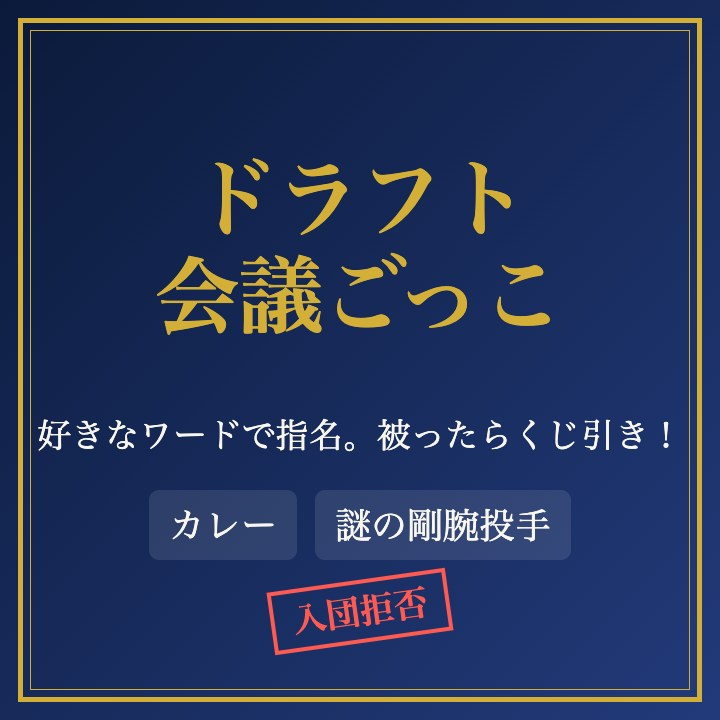
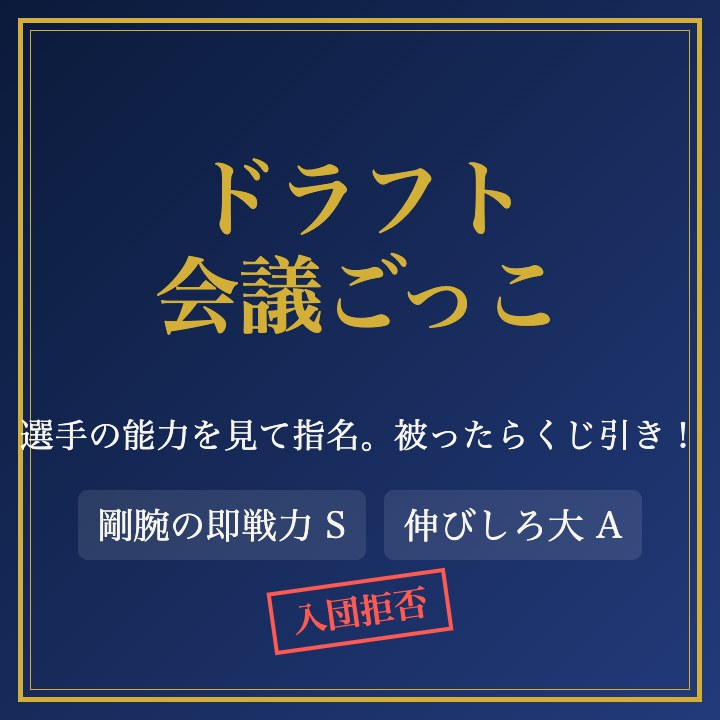
ドラフト会議ごっこの紹介・プライバシーを新しい仕様に更新（フリーワード廃止）

Changed region(s): [[0.0306, 0.5806, 0.9778, 0.6417], [0.1222, 0.6722, 0.8861, 0.7639]]

diff --git a/works/draft-party/index.html b/works/draft-party/index.html
@@ -4,9 +4,9 @@
 <meta charset="utf-8">
 <meta name="viewport" content="width=device-width, initial-scale=1">
 <title>ドラフト会議ごっこ — Koshin Studio</title>
-<meta name="description" content="好きなワードで指名して、被ったらくじ引き。選手の能力を見て選ぶスカウトモードでは、数年後の成績発表まで。友達と、知らない人と遊べる無料のブラウザゲーム。">
+<meta name="description" content="選手の能力を見て指名して、被ったらくじ引き。数年後の成績発表まで見られる、友達と、知らない人と遊べる無料のブラウザゲーム。">
 <meta property="og:title" content="ドラフト会議ごっこ">
-<meta property="og:description" content="好きなワードで指名して、被ったらくじ引き。みんなで遊ぶブラウザのドラフト会議。">
+<meta property="og:description" content="選手の能力を見て指名して、被ったらくじ引き。みんなで遊ぶブラウザのドラフト会議。">
 <meta property="og:type" content="article">
 <meta name="theme-color" content="#fbfaf7">
 <link rel="icon" href="/favicon.ico?v=1697d589" sizes="48x48">
@@ -27,7 +27,7 @@
 <link rel="alternate" hreflang="x-default" href="https://koshinstudio.com/en/works/draft-party/">
 <meta name="twitter:card" content="summary_large_image">
 <link rel="alternate" type="application/rss+xml" title="Koshin Studio — Notes" href="https://koshinstudio.com/feed.xml">
-<script type="application/ld+json">{"@context":"https://schema.org","@graph":[{"@type":"VideoGame","name":"ドラフト会議ごっこ","url":"https://koshinstudio.com/works/draft-party/","description":"好きなワードで指名して、被ったらくじ引き。選手の能力を見て選ぶスカウトモードでは、数年後の成績発表まで。みんなで遊ぶ、ブラウザのドラフト会議。","inLanguage":"ja","image":"https://koshinstudio.com/assets/draft-party-square@2x.jpg","applicationCategory":"GameApplication","operatingSystem":"Web","datePublished":"2026","gamePlatform":"Web browser","playMode":"SinglePlayer","genre":["パーティーゲーム","ドラフト"],"author":{"@id":"https://koshinstudio.com#studio"},"publisher":{"@id":"https://koshinstudio.com#studio"},"offers":{"@type":"Offer","price":"0","priceCurrency":"JPY"}},{"@type":"BreadcrumbList","itemListElement":[{"@type":"ListItem","position":1,"name":"Koshin Studio","item":"https://koshinstudio.com/"},{"@type":"ListItem","position":2,"name":"Works","item":"https://koshinstudio.com/works/"},{"@type":"ListItem","position":3,"name":"ドラフト会議ごっこ","item":"https://koshinstudio.com/works/draft-party/"}]}]}</script>
+<script type="application/ld+json">{"@context":"https://schema.org","@graph":[{"@type":"VideoGame","name":"ドラフト会議ごっこ","url":"https://koshinstudio.com/works/draft-party/","description":"選手の能力を見て指名して、被ったらくじ引き。数年後の成績発表まで見られる、みんなで遊ぶブラウザのドラフト会議。","inLanguage":"ja","image":"https://koshinstudio.com/assets/draft-party-square@2x.jpg","applicationCategory":"GameApplication","operatingSystem":"Web","datePublished":"2026","gamePlatform":"Web browser","playMode":"SinglePlayer","genre":["パーティーゲーム","ドラフト"],"author":{"@id":"https://koshinstudio.com#studio"},"publisher":{"@id":"https://koshinstudio.com#studio"},"offers":{"@type":"Offer","price":"0","priceCurrency":"JPY"}},{"@type":"BreadcrumbList","itemListElement":[{"@type":"ListItem","position":1,"name":"Koshin Studio","item":"https://koshinstudio.com/"},{"@type":"ListItem","position":2,"name":"Works","item":"https://koshinstudio.com/works/"},{"@type":"ListItem","position":3,"name":"ドラフト会議ごっこ","item":"https://koshinstudio.com/works/draft-party/"}]}]}</script>
 <meta property="og:image" content="https://koshinstudio.com/assets/og/og_works_draft-party.jpg">
 <meta property="og:image:width" content="1200">
 <meta property="og:image:height" content="630">
@@ -46,7 +46,7 @@
   <h1>ドラフト会議ごっこ</h1>  <div class="rule"></div>
 <!--lang-->
   <p class="note"><a href="/en/works/draft-party/" hreflang="en" lang="en">English version</a></p>
-<!--/lang-->  <p class="lead">好きなワードで指名して、被ったらくじ引き。<br>みんなで盛り上がる、ブラウザのドラフト会議。</p>
+<!--/lang-->  <p class="lead">選手の能力を見て指名して、被ったらくじ引き。<br>みんなで盛り上がる、ブラウザのドラフト会議。</p>
 
   <p><a class="btn" data-play="draft-party" href="/draft/">遊ぶ</a></p>
   <p class="note">無料。ブラウザだけで遊べて、登録も要りません。日本語・英語・韓国語・繁体字中国語に対応しています。</p>
@@ -58,19 +58,20 @@
   </div>
 
   <h2 class="rv">どんな遊びか</h2>
-  <p>球団名を決めて、ワードで指名していくゲームです。1巡目は全員が同時に、ほかの人に見えないように入札します。一斉に公開して、同じワードが被った球団は<strong>くじ引き</strong>です。競合した球団が順番に伏せた紙を1枚ずつ取り、全員が取り終わったら一斉に開けます。当たった球団だけが交渉権を得て、外れた球団は別のワードで入札し直します（外れ1位）。</p>
+  <p>球団名を決めて、架空の新人選手を指名していくゲームです。1巡目は全員が同時に、ほかの人に見えないように入札します。一斉に公開して、同じ選手が被った球団は<strong>くじ引き</strong>です。競合した球団が順番に伏せた紙を1枚ずつ取り、全員が取り終わったら一斉に開けます。当たった球団だけが交渉権を得て、外れた球団は別の選手で入札し直します（外れ1位）。</p>
   <p>2巡目からは、1球団ずつ順番に指名します（順番は巡目ごとに反転）。最後に交渉結果の発表があり、「入団合意」と「入団拒否」が出ます。結果は画像にして、Xでシェアできます。</p>
 
   <h2 class="rv">2つのモード</h2>
-  <h3>フリーワードモード</h3>
-  <p>人でも食べ物でも思いつきの言葉でも、野球に限らず何でも指名できます。ホストがお題を決めたり、みんなで投票して決めたりもできます。</p>
   <h3>スカウトモード</h3>
-  <p>架空の新人選手の能力・将来性・実績を見て指名します。能力は「スカウトの見立て」なので、実際の力とはずれることがあります。入団した選手は数年かけて成長し、全チームが総当たりを戦います。年ごとの順位表、全チームとの対戦成績、首位打者や最多勝などのタイトル、新人王、ドラフト採点まで出て、その発表は参加者みんなで同時に見ながら、スタンプやチャットで盛り上がれます。ホストが選手を自分で登録するモードもあります。</p>
+  <p>架空の新人選手の能力・将来性・実績を見て指名します。能力は「スカウトの見立て」なので、実際の力とはずれることがあります。入団した選手は数年かけて成長し、全チームが総当たりを戦います。年ごとの順位表、全チームとの対戦成績、首位打者や最多勝などのタイトル、新人王、ドラフト採点まで出て、その発表は参加者みんなで同時に見ながら、スタンプやチャットで盛り上がれます。ホストが選手を自分で登録することもできます。</p>
+  <h3>選択肢モード</h3>
+  <p>ホストが用意した選択肢（例：クラスの全員、好きなアニメ50本）の中から選んで指名します。友達どうしの盛り上がり向けです。</p>
 
   <h2 class="rv">友達と、知らない人と</h2>
   <ul>
-    <li><strong>友達部屋</strong>：6文字の合言葉かURLで入ります。球団数・巡目数・制限時間・モード・お題はホストが決め、「開始」を押すまで始まりません。友達がそろったあとに公開すると、ランダムマッチの人も入ってきます。ホストは、困った人を退室させることもできます。</li>
-    <li><strong>ランダムマッチ</strong>：同じ言語の人と自動で組まれます。人が足りなくてもCPU球団が加わるので、待たされずに始まります。</li>
+    <li><strong>友達部屋</strong>：6文字の合言葉かURLで入ります。球団数・巡目数・制限時間・入団拒否・モードはホストが自由に決め、「開始」を押すまで始まりません。公開すると、募集中の部屋の一覧に載って、知らない人も入ってきます。ホストは、困った人を退室させることもできます。</li>
+    <li><strong>募集中の部屋を探す</strong>：公開されている部屋を、ルール（球団数・巡数・制限時間・入団拒否）を見てから選んで参加できます。</li>
+    <li><strong>おまかせ</strong>：探すのが面倒なときは、ワンタップで募集中の部屋に入ります。なければCPU球団が加わり、待たされずに始まります。</li>
   </ul>
   <p>球団には、オリジナルのエンブレムが自動で付きます（選び直せます）。自分の画像もどの部屋でも使えます（不適切な画像は通報で隠れます）。</p>
 

diff --git a/en/works/draft-party/index.html b/en/works/draft-party/index.html
@@ -4,9 +4,9 @@
 <meta charset="utf-8">
 <meta name="viewport" content="width=device-width, initial-scale=1">
 <title>Draft Party — Koshin Studio</title>
-<meta name="description" content="Draft Party is a free browser game. Pick any word; if teams tie, they draw lots. In Scout mode you pick fictional rookies by their abilities and watch several seasons of results together.">
+<meta name="description" content="Draft Party is a free browser game. Scout fictional rookies by their abilities and draw lots on ties, then watch several seasons of results together.">
 <meta property="og:title" content="Draft Party">
-<meta property="og:description" content="A free browser draft game: pick any word, draw lots on ties, and scout fictional rookies.">
+<meta property="og:description" content="A free browser draft game: scout fictional rookies, draw lots on ties, and watch the seasons play out.">
 <meta property="og:type" content="article">
 <meta name="theme-color" content="#fbfaf7">
 <link rel="icon" href="/favicon.ico?v=1697d589" sizes="48x48">
@@ -27,7 +27,7 @@
 <link rel="alternate" hreflang="x-default" href="https://koshinstudio.com/en/works/draft-party/">
 <meta name="twitter:card" content="summary_large_image">
 <link rel="alternate" type="application/rss+xml" title="Koshin Studio — Notes" href="https://koshinstudio.com/feed.xml">
-<script type="application/ld+json">{"@context":"https://schema.org","@graph":[{"@type":"VideoGame","name":"Draft Party — a free multiplayer draft game you play in your browser","url":"https://koshinstudio.com/en/works/draft-party/","description":"Draft Party is a free browser game. Pick any word; if teams tie, they draw lots. In Scout mode you pick fictional rookies by their abilities and watch several seasons of stats, standings and head-to-head results together. Play with friends or random players, in four languages.","inLanguage":"en","image":"https://koshinstudio.com/assets/draft-party-square@2x.jpg","applicationCategory":"GameApplication","operatingSystem":"Web","datePublished":"2026","gamePlatform":"Web browser","playMode":"SinglePlayer","author":{"@id":"https://koshinstudio.com#studio"},"publisher":{"@id":"https://koshinstudio.com#studio"},"offers":{"@type":"Offer","price":"0","priceCurrency":"JPY"}},{"@type":"BreadcrumbList","itemListElement":[{"@type":"ListItem","position":1,"name":"Koshin Studio","item":"https://koshinstudio.com/en/"},{"@type":"ListItem","position":2,"name":"Draft Party — a free multiplayer draft game you play in your browser","item":"https://koshinstudio.com/en/works/draft-party/"}]}]}</script>
+<script type="application/ld+json">{"@context":"https://schema.org","@graph":[{"@type":"VideoGame","name":"Draft Party — a free multiplayer draft game you play in your browser","url":"https://koshinstudio.com/en/works/draft-party/","description":"Draft Party is a free browser game. Scout fictional rookies by their abilities and draw lots on ties, then watch several seasons of stats, standings and head-to-head results together. Play with friends or strangers.","inLanguage":"en","image":"https://koshinstudio.com/assets/draft-party-square@2x.jpg","applicationCategory":"GameApplication","operatingSystem":"Web","datePublished":"2026","gamePlatform":"Web browser","playMode":"SinglePlayer","author":{"@id":"https://koshinstudio.com#studio"},"publisher":{"@id":"https://koshinstudio.com#studio"},"offers":{"@type":"Offer","price":"0","priceCurrency":"JPY"}},{"@type":"BreadcrumbList","itemListElement":[{"@type":"ListItem","position":1,"name":"Koshin Studio","item":"https://koshinstudio.com/en/"},{"@type":"ListItem","position":2,"name":"Draft Party — a free multiplayer draft game you play in your browser","item":"https://koshinstudio.com/en/works/draft-party/"}]}]}</script>
 <meta property="og:image" content="https://koshinstudio.com/assets/og/og_works_draft-party.jpg">
 <meta property="og:image:width" content="1200">
 <meta property="og:image:height" content="630">
@@ -46,7 +46,7 @@
   <h1>Draft Party</h1>  <div class="rule"></div>
 <!--lang-->
   <p class="note"><a href="/works/draft-party/" hreflang="ja" lang="ja">日本語版</a></p>
-<!--/lang-->  <p class="lead">Pick any word you like. Tie with someone? Lottery!<br>A draft day for everyone, in your browser.</p>
+<!--/lang-->  <p class="lead">Scout rookies by their abilities. Tie with someone? Lottery!<br>A draft day for everyone, in your browser.</p>
 
   <p><a class="btn" data-play="draft-party" href="/draft/">Play now</a></p>
   <p class="note">Free. Runs in your browser, no install or sign-up. Available in Japanese, English, Korean and Traditional Chinese.</p>
@@ -58,19 +58,20 @@
   </div>
 
   <h2 class="rv">What it is</h2>
-  <p>Name your team and pick words. In Round 1 everyone bids at the same time, hidden from the others, and all bids are revealed together. If teams chose the same word, they <strong>draw lots</strong>: the competing teams take turns picking one hidden paper, and when everyone has picked, all papers open at once. Only the winner gets the rights; the others re-bid with a different word.</p>
+  <p>Name your team and pick fictional rookies. In Round 1 everyone bids at the same time, hidden from the others, and all bids are revealed together. If teams chose the same player, they <strong>draw lots</strong>: the competing teams take turns picking one hidden paper, and when everyone has picked, all papers open at once. Only the winner gets the rights; the others re-bid on a different player.</p>
   <p>From Round 2, teams pick one at a time, and the order flips every round. At the end, the contract talks are announced — “signed” or “refused”. You can turn your result into an image and share it on X.</p>
 
   <h2 class="rv">Two modes</h2>
-  <h3>Free-word mode</h3>
-  <p>Pick anything — a person, a food, any word, not just baseball. The host can set a theme, or everyone can vote for one.</p>
   <h3>Scout mode</h3>
-  <p>Pick fictional rookies by their abilities, potential and records. The abilities are the scouts’ estimates and can differ from reality. Signed players grow over several years while every team plays every other team. You get yearly standings, head-to-head records against every team, titles such as batting champion and wins leader, Rookie of the Year and draft grades — revealed to everyone at the same time, so you can react together with stamps and chat. There is also a mode where the host registers the players.</p>
+  <p>Pick fictional rookies by their abilities, potential and records. The abilities are the scouts’ estimates and can differ from reality. Signed players grow over several years while every team plays every other team. You get yearly standings, head-to-head records against every team, titles such as batting champion and wins leader, Rookie of the Year and draft grades — revealed to everyone at the same time, so you can react together with stamps and chat. The host can also register the players.</p>
+  <h3>Choice mode</h3>
+  <p>Pick from a list the host prepared — for example, everyone in your class or 50 favorite anime. Great for groups of friends.</p>
 
   <h2 class="rv">With friends, or with strangers</h2>
   <ul>
-    <li><strong>Friends room</strong>: enter with a 6-character room code or a link. The host chooses the number of teams, rounds, time limit, mode and theme, and nothing starts until the host presses Start. Once your friends are in, the host can make the room public so random-match players can join. The host can also remove anyone who causes trouble.</li>
-    <li><strong>Random match</strong>: you are grouped with players using the same language. If there aren’t enough players, CPU teams join, so it starts without a wait.</li>
+    <li><strong>Friends room</strong>: enter with a 6-character room code or a link. The host freely chooses the number of teams, rounds, time limit, refusals and mode, and nothing starts until the host presses Start. A public room is listed so strangers can join. The host can also remove anyone who causes trouble.</li>
+    <li><strong>Find an open room</strong>: browse public rooms and see their rules (teams, rounds, time limit, refusals) before you join.</li>
+    <li><strong>Quick join</strong>: don’t want to search? One tap puts you in an open room, or starts one with CPU teams so there is no wait.</li>
   </ul>
   <p>Every team gets an original emblem automatically (you can pick another), and you can use your own image in any room (inappropriate images are hidden after reports).</p>
 

diff --git a/privacy/index.html b/privacy/index.html
@@ -50,7 +50,7 @@
   <p>「すし積む」では<strong>端末が作った番号</strong>と<strong>その一戦の手順</strong>も預かります。手順は、得点の辻褄を見るためのものです。「端末が作った番号」は、その端末の中でランダムに作られる文字列で、同じ人の記録をまとめるためだけに使います。誰かを特定するものではありません。</p>
   <p>「10秒ピッタリで止めろ！」では、<strong>名前と3回ぶんの誤差、載せた時刻</strong>だけです。端末の番号は作りません。その日ぶんの順位は日付が変わると流れます。</p>
   <p>「寝返り将棋」では、オンライン対戦を遊んだとき（と順位表を開いたとき）に、<strong>端末が作った番号、名前（既定は「名無し」）、レーティング、勝ち負けの数、一局ごとの手順と結果</strong>を預かります。順位表に、名前とレーティングが載ります。AI 対戦と、同じ端末での2人対戦では、何も預かりません。</p>
-  <p>「ドラフト会議ごっこ」では、部屋の中でのやり取りのために、<strong>端末が作った番号、球団名、指名したワード（または選手）、チャットの発言、通報、部屋の設定</strong>を、その部屋のあいだだけ預かります。自分の画像をアイコンにした場合は、<strong>端末で小さくした画像</strong>が、その部屋の参加者にだけ送られます（ランダムマッチと公開中の部屋では、広告のあるロビーと結果の画面には出さず、エンブレムを表示します）。不適切な画像は、2人の通報で全員から隠れます。ホストが選手の名前や能力を登録した場合は、その内容も同じ部屋の中だけで扱います。ランキングはありません。部屋のデータは、ゲーム終了の10分後（誰もいなくなった部屋は30分後）に、通報の記録もふくめてすべて削除されます。スタンプと定型文は保存しません。</p>
+  <p>「ドラフト会議ごっこ」では、部屋の中でのやり取りのために、<strong>端末が作った番号、球団名、指名した選手（または選択肢）、チャットの発言、通報、部屋の設定</strong>を、その部屋のあいだだけ預かります。自分の画像をアイコンにした場合は、<strong>端末で小さくした画像</strong>が、その部屋の参加者にだけ送られます（ランダムマッチと公開中の部屋では、広告のあるロビーと結果の画面には出さず、エンブレムを表示します）。不適切な画像は、2人の通報で全員から隠れます。ホストが選手の名前や能力を登録した場合は、その内容も同じ部屋の中だけで扱います。ランキングはありません。部屋のデータは、ゲーム終了の10分後（誰もいなくなった部屋は30分後）に、通報の記録もふくめてすべて削除されます。スタンプと定型文は保存しません。</p>
   <p>チャットや名前など、ほかの参加者が入力した内容は、同じ部屋の人に表示されます。ホストが実在の人物の名前などを登録する場合、その内容はホストの責任です。不適切な内容は、自動で弾き、通報（2人で全員の画面から非表示）できる仕組みを用意しています。</p>
   <p>名前は自由に決められます。本名を入れる必要はありません。</p>
 

diff --git a/en/privacy/index.html b/en/privacy/index.html
@@ -51,7 +51,7 @@
   <p><strong>Stop at 10 seconds</strong> stores only <strong>your name, the errors of your three tries and the time you submitted</strong>. It does not create a device number. The day’s ranking is cleared when the date changes.</p>
   <p><strong>Negaeri Shogi</strong>, when you play online (and when you open the ranking), stores <strong>a device-generated number, your name (default: “Anonymous” in Japanese), your rating, win/loss counts, and the moves and result of each game</strong>. Your name and rating appear in the ranking. Playing against the AI, or two players on the same device, stores nothing.</p>
   <p><strong>Anime Type Quiz</strong> calculates your answers on your device only and sends them nowhere.</p>
-  <p><strong>Draft Party</strong> (/draft/) keeps, only for the lifetime of a room and for the sake of play, <strong>a device-generated number, your team name, the words (or players) you pick, chat messages, reports and the room settings</strong>. If you use your own image as a team icon, <strong>a version shrunk on your device</strong> is sent only to the other participants of that room (in random match and public rooms it is not shown on the lobby and results screens, which carry ads — an emblem is shown instead). An inappropriate image is hidden for everyone after two reports. If a host registers players’ names and abilities, that content is likewise handled only inside that room. There is no ranking. A room’s data, including reports, is deleted 10 minutes after the game ends (30 minutes after a room is abandoned). Stamps and quick phrases are not stored.</p>
+  <p><strong>Draft Party</strong> (/draft/) keeps, only for the lifetime of a room and for the sake of play, <strong>a device-generated number, your team name, the players (or options) you pick, chat messages, reports and the room settings</strong>. If you use your own image as a team icon, <strong>a version shrunk on your device</strong> is sent only to the other participants of that room (in random match and public rooms it is not shown on the lobby and results screens, which carry ads — an emblem is shown instead). An inappropriate image is hidden for everyone after two reports. If a host registers players’ names and abilities, that content is likewise handled only inside that room. There is no ranking. A room’s data, including reports, is deleted 10 minutes after the game ends (30 minutes after a room is abandoned). Stamps and quick phrases are not stored.</p>
   <p>What other participants type — chat, names and so on — is shown to the people in the same room. If a host registers real people’s names or similar, that content is the host’s responsibility. Inappropriate content is filtered automatically, and can be reported (two reports hide it for everyone).</p>
   <p>You can choose any name. You do not need to use your real name.</p>
 
